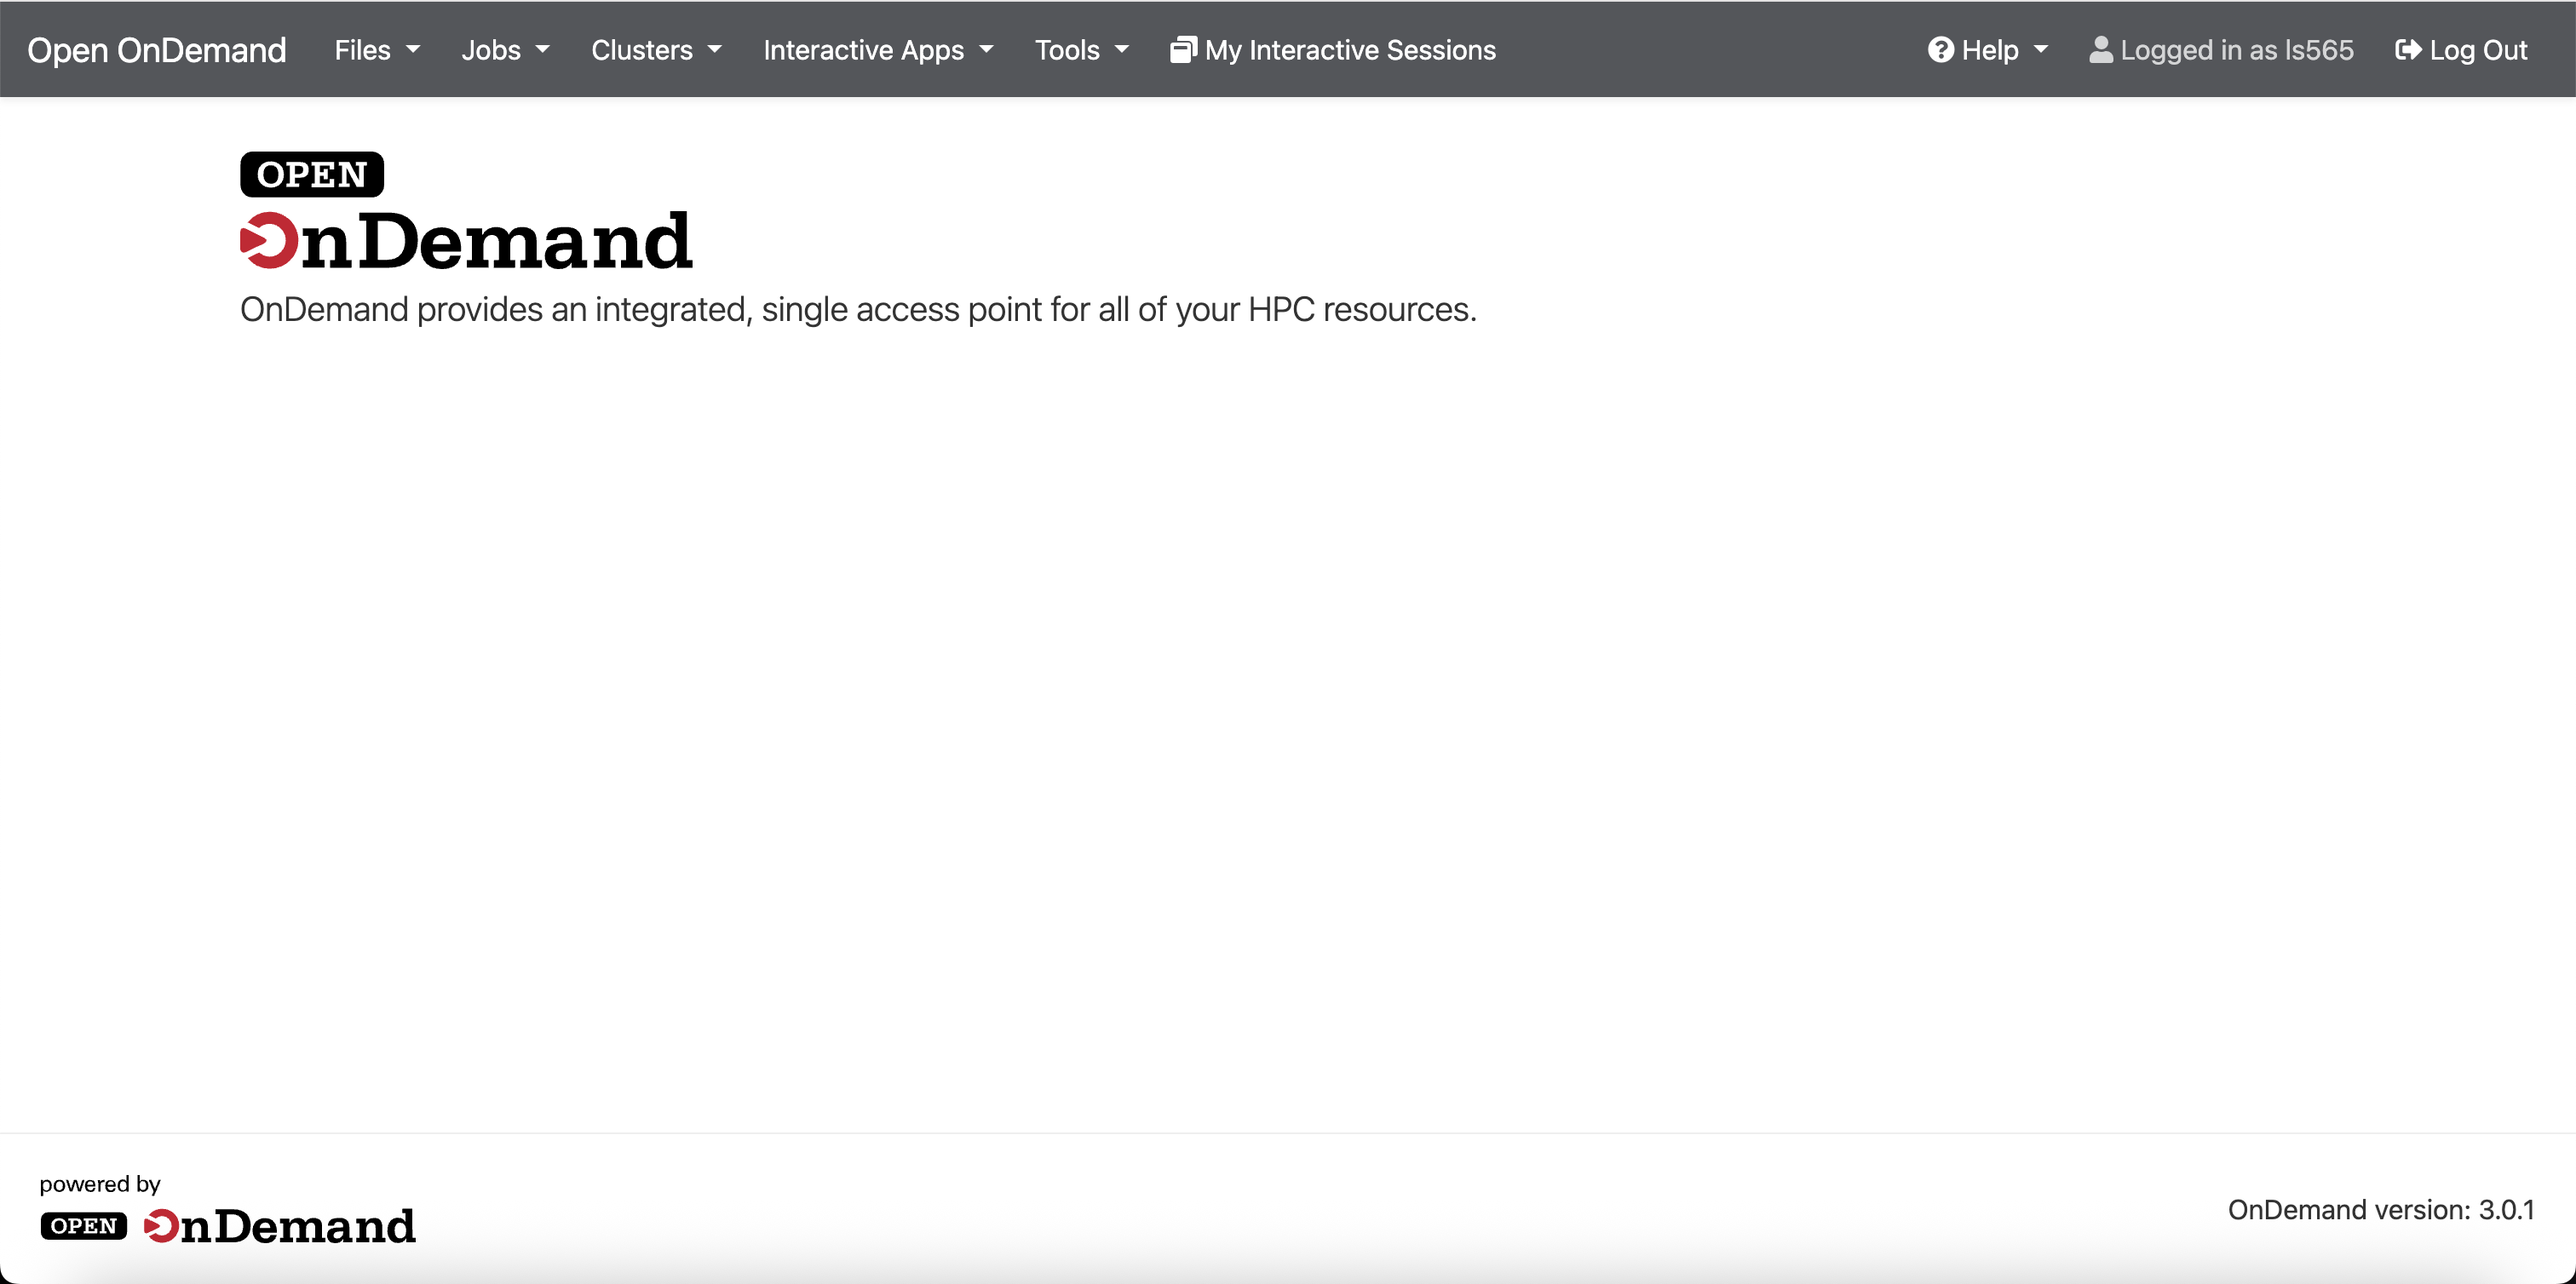
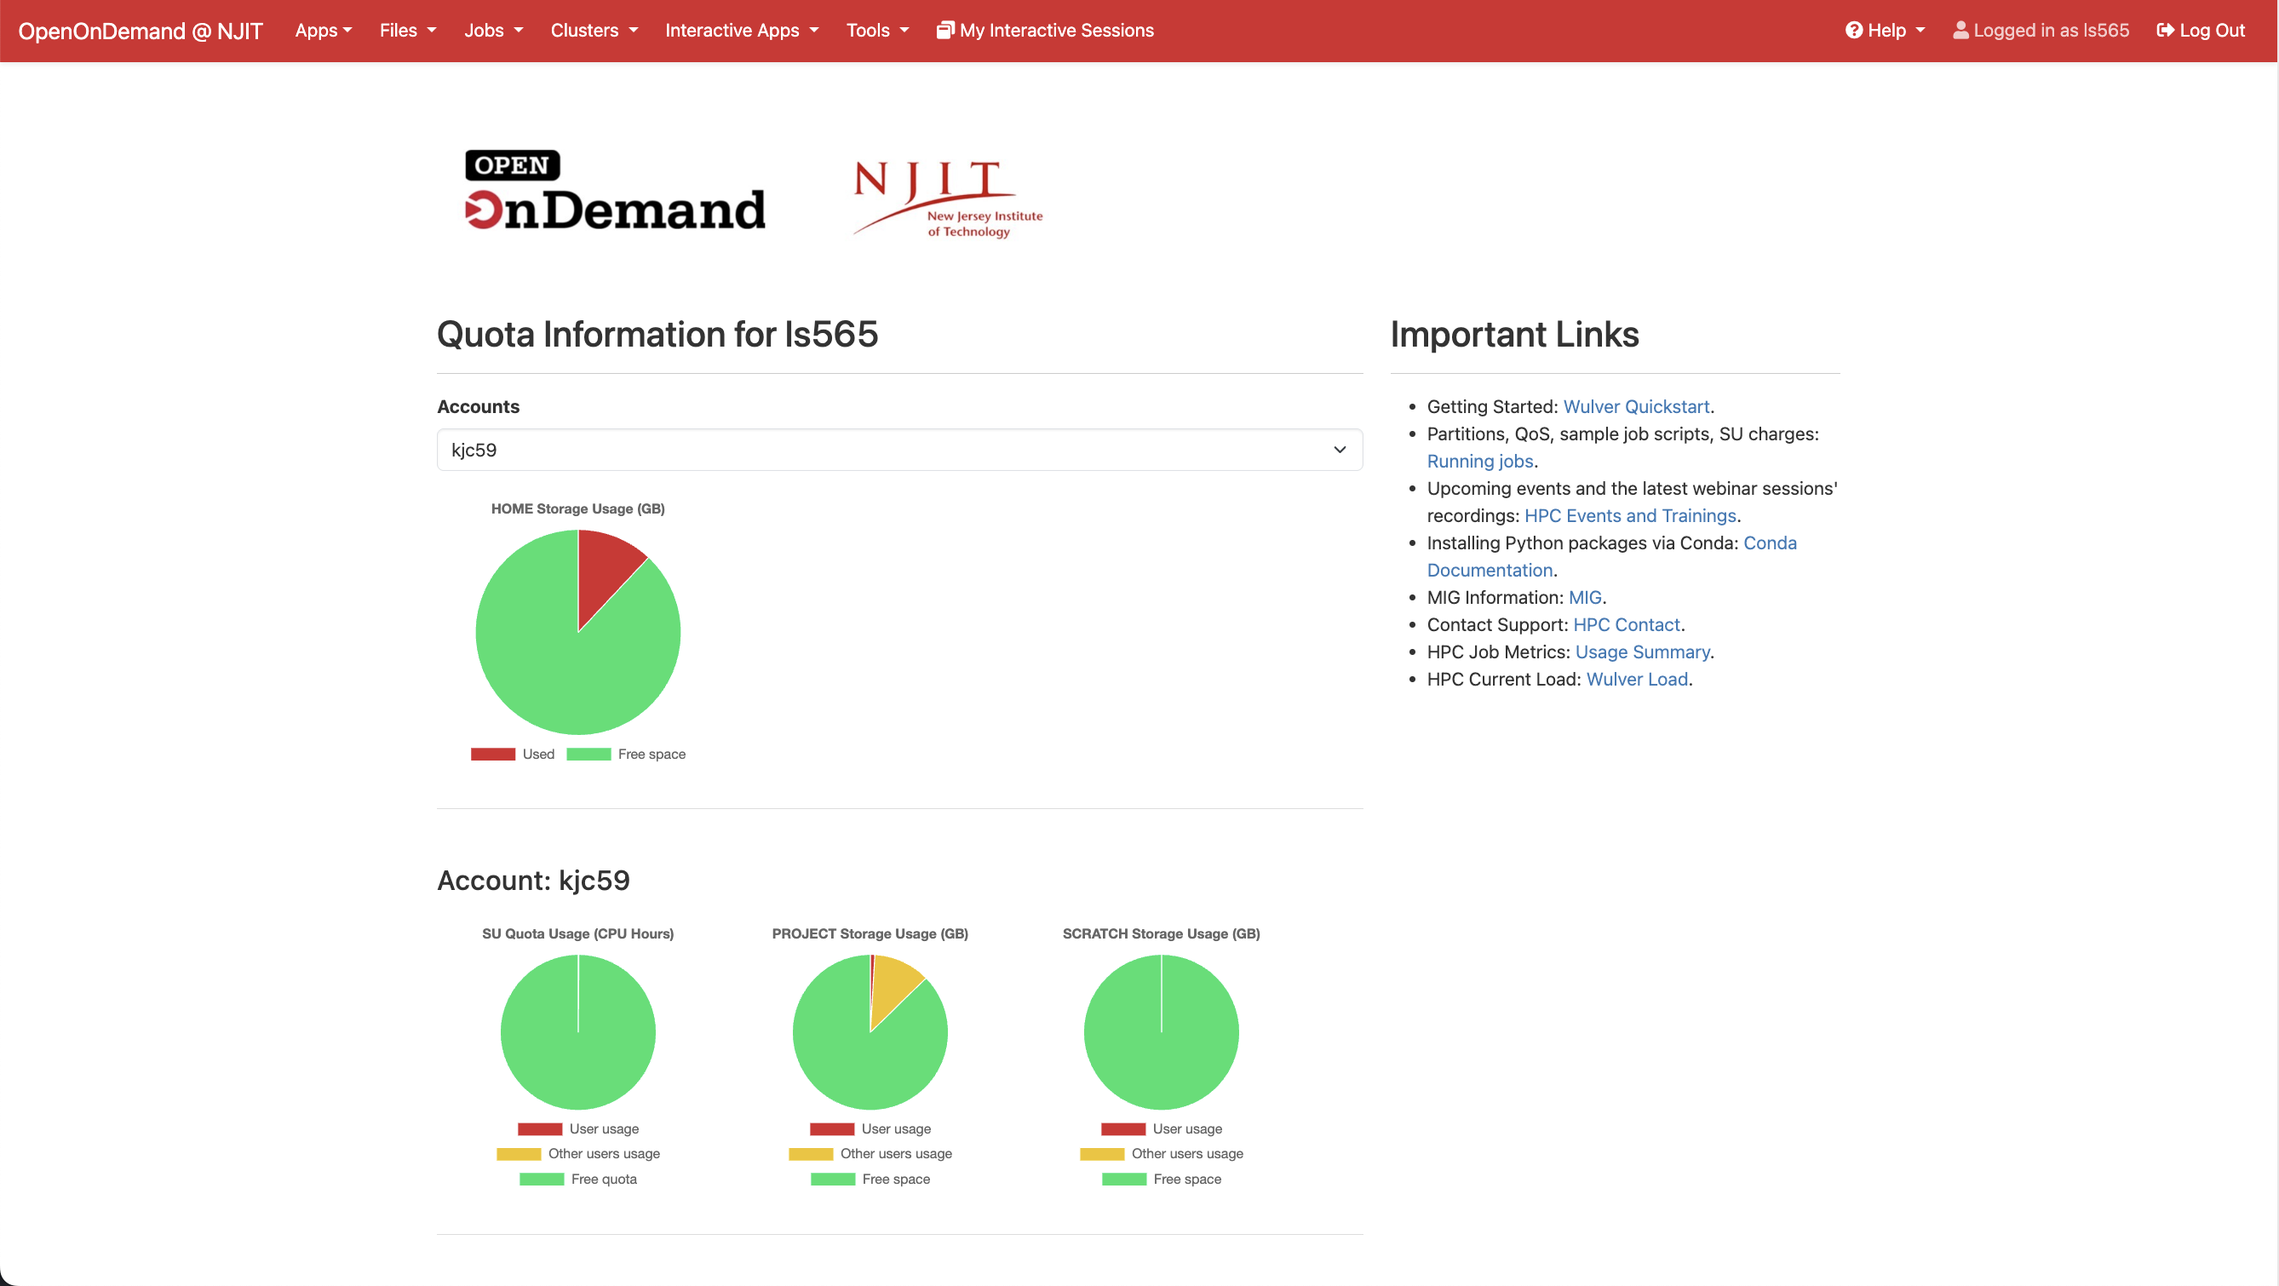
ood/login: update login page image

diff --git a/docs/OnDemand/index.md b/docs/OnDemand/index.md
@@ -20,15 +20,15 @@ This is an [open source](https://openondemand.org/) project developed through NS
 
 ### Logging into OnDemand
 
-![login.png](../assets/ondemand/login.png){ width=60% height=60%}
+![login.png](../assets/ondemand/login.png){ width=100% height=100%}
 
 If you have access to the Wulver cluster, you can use OnDemand. Open any browser and go to ondemand.njit.edu. Use your UCID and password to log in. If you are off campus, you will need to set up VPN to access the platform.
 
 
 ### Dashboard
 
-![dashboard.png](../assets/ondemand/dashboard.png){ width=60% height=60%}
+![dashboard.png](../assets/ondemand/dashboard.png){ width=100% height=100%}
 
-Once you log in, you will see the OnDemand Dashboard. You will see the menu bar on the top where you can access all the tools available including Files Manager, Shell Access, Job Composer, and Interactive Apps. You will also see several pinned apps highlighted on the Dashboard.
+Once you log in, you will see the OnDemand Dashboard. You will see the menu bar on the top where you can access all the tools available including Files Manager, Shell Access, Job Composer, and Interactive Apps. You will also see several pinned apps highlighted on the Dashboard along with quota information. More [info](dashboard.md)
 
 
